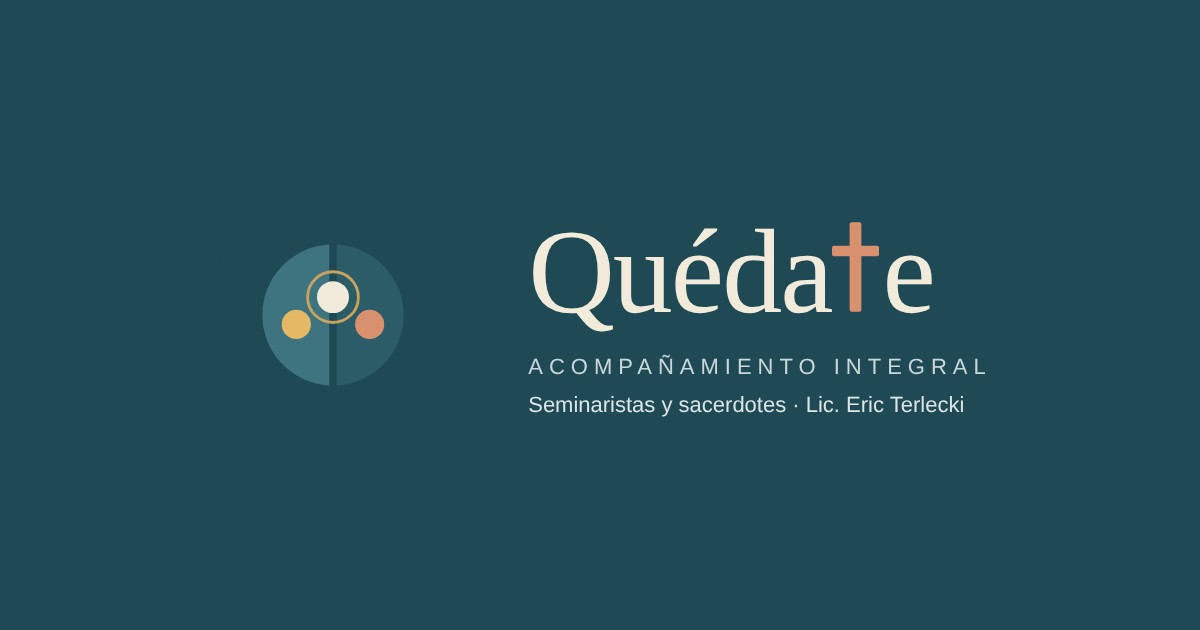
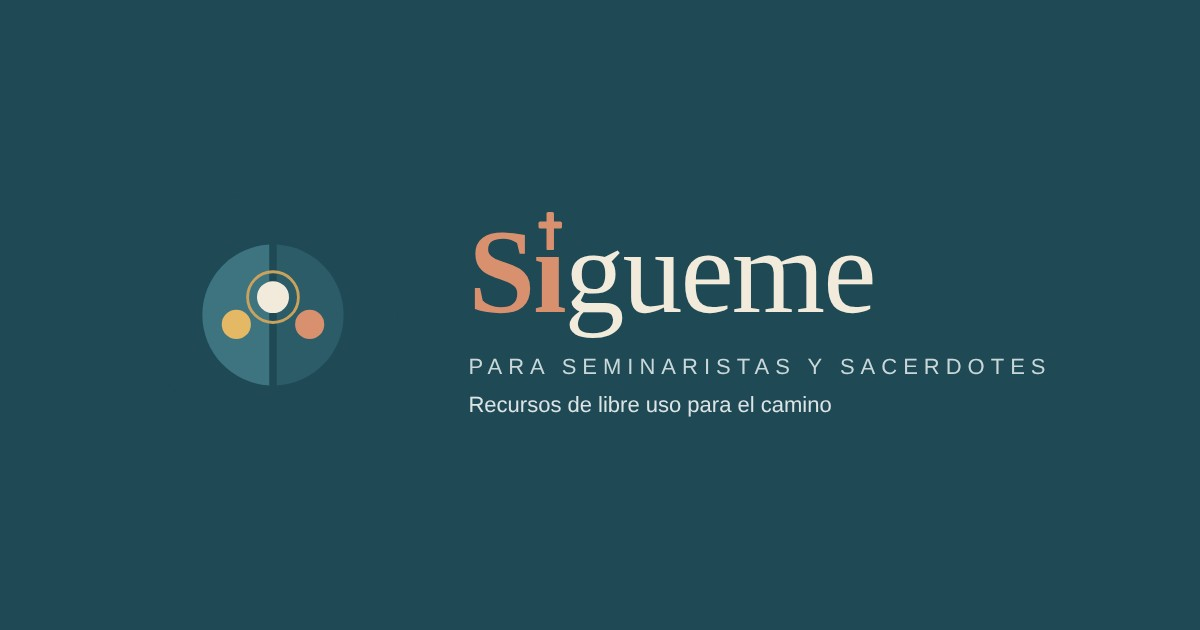
Nuevo nombre: Sígueme
Claude-Session: https://claude.ai/code/session_01126Kc534DUeLLevauV9jN5

Changed region(s): [[0.37, 0.3317, 0.8633, 0.6032], [0.1542, 0.3921, 0.3392, 0.6333], [0.37, 0.6333, 0.8017, 0.6635]]

diff --git a/app/index.html b/app/index.html
@@ -10,12 +10,12 @@
 <meta name="apple-mobile-web-app-capable" content="yes">
 <meta name="mobile-web-app-capable" content="yes">
 <meta name="apple-mobile-web-app-status-bar-style" content="black-translucent">
-<meta name="apple-mobile-web-app-title" content="Quédate">
+<meta name="apple-mobile-web-app-title" content="Sígueme">
 <style>:root{padding-top:env(safe-area-inset-top,0px);padding-bottom:env(safe-area-inset-bottom,0px)}body{margin:0}img{max-width:100%}[hidden]{display:none!important}</style>
-<title>Quédate · Examen del día</title>
+<title>Sígueme · Examen del día</title>
 <meta name="theme-color" content="#1f4955">
 <link rel="preconnect" href="https://fonts.googleapis.com">
-<link rel="stylesheet" href="https://fonts.googleapis.com/css2?family=Gloock&family=Newsreader:ital,opsz,wght@1,6..72,400;1,6..72,500&family=Figtree:wght@400;500;600;700&family=Playfair+Display:wght@500&display=swap">
+<link rel="stylesheet" href="https://fonts.googleapis.com/css2?family=Gloock&family=Newsreader:ital,opsz,wght@1,6..72,400;1,6..72,500&family=Figtree:wght@400;500;600;700&family=Playfair+Display:wght@500;700&display=swap">
 <style>
 /* Layout: app de una columna, encabezado de marca arriba, pestañas fijas abajo; cada vista es una "hoja" tranquila */
 :root{
@@ -279,7 +279,7 @@ dl.kv dd{margin:0;display:flex;flex-wrap:wrap;gap:6px 10px;align-items:baseline;
 .sos-list small{color:var(--muted);font-size:.82rem;grid-column:2}
 footer.sig{padding-block:26px 6px;text-align:center;font-size:.8rem;color:var(--muted)}
 
-/* ---- Quédate: ajustes propios ---- */
+/* ---- Sígueme: ajustes propios ---- */
 nav.tabs .in{grid-template-columns:repeat(5,1fr)}
 nav.tabs a{font-size:.7rem}
 .brand > svg{width:40px;height:40px}
@@ -351,6 +351,10 @@ nav.tabs a{font-size:.7rem}
 .word-day .ill,.mini-word .ill{width:72px;height:72px;border-radius:16px;padding:6px;background:color-mix(in srgb,var(--head-fg) 10%,transparent)}
 .mini-word .ill{width:60px;height:60px;background:var(--head-bg)}
 .quote .qtop .ill{width:60px;height:60px}
+/* Marca Sígueme: el «Sí» resaltado y la tilde como cruz que late */
+.wordmark .si{color:var(--terra,#D9906F);font-weight:700}
+.wordmark .ii{position:relative;display:inline-block}
+.wordmark .tilde{position:absolute;left:50%;bottom:.73em;width:.26em;height:.32em;transform:translateX(-46%);overflow:visible}
 </style>
 </head>
 <body>
@@ -364,6 +368,7 @@ nav.tabs a{font-size:.7rem}
       <circle cx="36" cy="85" r="15.5" fill="#E5B866"/>
       <circle cx="114" cy="85" r="15.5" fill="#D9906F"/>
     </symbol>
+    <symbol id="cruz-tilde" viewBox="0 0 44 72"><g class="latido" fill="#D9906F"><rect x="15" y="0" width="14" height="72" rx="3"/><rect x="0" y="18" width="44" height="13" rx="3"/></g></symbol>
     <symbol id="cruz" viewBox="0 0 44 84">
       <g class="latido" fill="#D9906F"><rect x="16.5" y="0" width="11" height="84" rx="2"/><rect x="0" y="22" width="44" height="10" rx="2"/></g>
     </symbol>
@@ -372,9 +377,9 @@ nav.tabs a{font-size:.7rem}
 
 <div class="wrap">
   <header class="top">
-    <a class="brand" href="#hoy" aria-label="Quédate, inicio">
+    <a class="brand" href="#hoy" aria-label="Sígueme, inicio">
       <svg aria-hidden="true"><use href="#simbolo"/></svg>
-      <div><div class="name wordmark" aria-hidden="true">Quéda<svg class="t"><use href="#cruz"/></svg>e</div><div class="sub">Examen del día</div></div>
+      <div><div class="name wordmark" aria-hidden="true"><span class="si">S<span class="ii">ı<svg class="tilde" aria-hidden="true"><use href="#cruz-tilde"/></svg></span></span>gueme</div><div class="sub">Examen del día</div></div>
     </a>
     <div class="top-actions">
       <a class="icon-btn" href="#contacto" data-nav="contacto">Acerca de</a>
@@ -627,7 +632,7 @@ nav.tabs a{font-size:.7rem}
         <summary>Instalar la app en el celular</summary>
         <div class="body">
           <div class="inst-ios-g"><b>En iPhone (Safari)</b><ol><li>Abra este enlace en <b>Safari</b>.</li><li>Toque el botón Compartir, en la barra de abajo.</li><li>Elija <b>«Agregar a inicio»</b> y toque <b>«Agregar»</b>.</li></ol></div>
-          <div class="inst-android-g"><b>En Android (Chrome)</b><ol><li>Abra este enlace en <b>Chrome</b>.</li><li>Toque el menú <b>⋮</b> (tres puntos), arriba a la derecha.</li><li>Elija <b>«Instalar aplicación»</b> o <b>«Agregar a la pantalla principal»</b>.</li><li>Confirme con <b>«Instalar»</b>. El ícono de Quédate aparece en su pantalla de inicio.</li></ol><p class="small muted">¿Usa Samsung Internet? Toque el menú <b>☰</b> abajo a la derecha, elija <b>«Agregar página a»</b> y luego <b>«Pantalla de inicio»</b>.</p></div>
+          <div class="inst-android-g"><b>En Android (Chrome)</b><ol><li>Abra este enlace en <b>Chrome</b>.</li><li>Toque el menú <b>⋮</b> (tres puntos), arriba a la derecha.</li><li>Elija <b>«Instalar aplicación»</b> o <b>«Agregar a la pantalla principal»</b>.</li><li>Confirme con <b>«Instalar»</b>. El ícono de Sígueme aparece en su pantalla de inicio.</li></ol><p class="small muted">¿Usa Samsung Internet? Toque el menú <b>☰</b> abajo a la derecha, elija <b>«Agregar página a»</b> y luego <b>«Pantalla de inicio»</b>.</p></div>
           <p class="small muted">Si ya la instaló, se actualiza sola cada vez que la abre con internet.</p>
         </div>
       </details>
@@ -681,7 +686,7 @@ nav.tabs a{font-size:.7rem}
       <div class="lead"><h2>Ajustes</h2><p class="muted">Todo se guarda sólo en este dispositivo.</p></div>
       <div class="card">
         <h3>Instalar en el celular</h3>
-        <p class="small muted">Tenga la app en la pantalla de inicio, con el logo de Quédate. Se abre como cualquier aplicación y funciona sin conexión.</p>
+        <p class="small muted">Tenga la app en la pantalla de inicio, con el logo de Sígueme. Se abre como cualquier aplicación y funciona sin conexión.</p>
         <div class="row"><button class="btn" id="a-install" type="button">Instalar la app</button><a class="btn ghost" href="#guia" data-goto="guia-instalar">Ver los pasos</a></div>
       </div>
       <div class="card">
@@ -706,7 +711,7 @@ nav.tabs a{font-size:.7rem}
     </section>
   </main>
 
-  <footer class="sig">Quédate · Lic. Eric Terlecki · Mat. 4331 · Rosario</footer>
+  <footer class="sig">Sígueme · Lic. Eric Terlecki · Mat. 4331 · Rosario</footer>
 </div>
 
 <nav class="tabs" aria-label="Secciones">
@@ -801,7 +806,7 @@ function loadDay(){const k=curDate(),d=daily[k]||{};
   const b=$("#hoy-estado");b.textContent=daily[k]?"Guardado":"Sin registrar";updateDayWA();paintHoyPalabra()}
 function paintHoyPalabra(){let p=PALABRA[pIdx()];if(mocion!==null&&mocion<0){const ds=PALABRA.filter(x=>x.c==="En la desolación");p=ds[pIdx()%ds.length]}$("#hoy-palabra").innerHTML=wordBlock(p,false)}
 function dayText(){const d=dayFromForm(),k=curDate(),L=[];
-  L.push("*Quédate · Examen del día*");if(prefs.nombre)L.push(prefs.nombre);L.push(fmtLong(parse(k)));L.push("");
+  L.push("*Sígueme · Examen del día*");if(prefs.nombre)L.push(prefs.nombre);L.push(fmtLong(parse(k)));L.push("");
   const g=[...d.gracias];if(d.graciasTxt)g.push(d.graciasTxt);if(g.length)L.push("*Doy gracias por:* "+g.join(", "));
   if(d.animo!==null)L.push("*Ánimo:* "+moodName(d.animo));
   const e=[...d.emociones];if(d.otra)e.push(d.otra);if(e.length)L.push("*Emociones:* "+e.join(", "));
@@ -838,7 +843,7 @@ function loadWeek(){const ks=weekDays();
 function weekFromForm(){return{proxima:$("#w-proxima").value,cons:$("#w-cons").value.trim(),deso:$("#w-deso").value.trim(),cansancio:getSeg($("#w-cansancio")),
   gad1:getSeg($("#w-gad1")),gad2:getSeg($("#w-gad2")),sostuvo:getChips($("#w-sostuvo")),sesion:$("#w-sesion").value.trim(),gracia:$("#w-gracia").value.trim()}}
 function weekText(){const w=weekFromForm(),ks=weekDays(),L=[];
-  L.push("*Quédate · Revisión semanal*");if(prefs.nombre)L.push(prefs.nombre);L.push("Semana del "+fmtShort(wStart)+" al "+fmtShort(addDays(wStart,6)));
+  L.push("*Sígueme · Revisión semanal*");if(prefs.nombre)L.push(prefs.nombre);L.push("Semana del "+fmtShort(wStart)+" al "+fmtShort(addDays(wStart,6)));
   if(w.proxima)L.push("Próximo encuentro: "+fmtShort(parse(w.proxima)));L.push("");
   const lines=ks.map((k,i)=>{const d=daily[k];return d?`${DIAS[i]}: ${moodName(d.animo)} · ${mocName(d.mocion)}`:null}).filter(Boolean);
   if(lines.length){L.push("*Exámenes de la semana*");L.push(...lines);L.push("")}

diff --git a/index.html b/index.html
@@ -5,24 +5,24 @@
 <meta name="viewport" content="width=device-width, initial-scale=1, viewport-fit=cover">
 <link rel="icon" href="favicon.svg" type="image/svg+xml">
 <link rel="apple-touch-icon" href="apple-touch-icon.png">
-<meta property="og:title" content="Quédate · Acompañamiento integral">
+<meta property="og:title" content="Sígueme · Acompañamiento integral">
 <meta property="og:description" content="Recursos de libre uso para seminaristas y sacerdotes: examen del día, la Palabra, lecturas y claves para el camino.">
 <meta property="og:type" content="website">
-<meta property="og:site_name" content="Quédate">
+<meta property="og:site_name" content="Sígueme">
 <meta property="og:locale" content="es_AR">
 <meta property="og:url" content="https://quedate-web.vercel.app/">
 <meta property="og:image" content="https://quedate-web.vercel.app/og-imagen.jpg">
 <meta property="og:image:width" content="1200">
 <meta property="og:image:height" content="630">
-<meta property="og:image:alt" content="Quédate · Acompañamiento integral para seminaristas y sacerdotes. Lic. Eric Terlecki.">
+<meta property="og:image:alt" content="Sígueme · Acompañamiento integral para seminaristas y sacerdotes. Lic. Eric Terlecki.">
 <meta name="twitter:card" content="summary_large_image">
 <link rel="canonical" href="https://quedate-web.vercel.app/">
 <meta name="theme-color" content="#1F4955">
-<title>Quédate · Acompañamiento integral para seminaristas y sacerdotes</title>
-<meta name="description" content="Quédate · Recursos de libre uso para seminaristas y sacerdotes: examen del día, la Palabra, lecturas y claves para el camino.">
+<title>Sígueme · Acompañamiento integral para seminaristas y sacerdotes</title>
+<meta name="description" content="Sígueme · Recursos de libre uso para seminaristas y sacerdotes: examen del día, la Palabra, lecturas y claves para el camino.">
 <link rel="preconnect" href="https://fonts.googleapis.com">
 <link rel="preconnect" href="https://fonts.gstatic.com" crossorigin>
-<link rel="stylesheet" href="https://fonts.googleapis.com/css2?family=Gloock&family=Figtree:wght@400;500;600&family=Playfair+Display:wght@500&display=swap">
+<link rel="stylesheet" href="https://fonts.googleapis.com/css2?family=Gloock&family=Figtree:wght@400;500;600&family=Playfair+Display:wght@500;700&display=swap">
 <style>
 html,body{margin:0}body{-webkit-font-smoothing:antialiased}img{max-width:100%}[hidden]{display:none!important}
 :root{
@@ -245,6 +245,11 @@ footer a{color:var(--cream)}
 .conv-steps{margin-top:18px;color:rgba(242,235,219,.8);max-width:62ch}
 .nav .nav-quiet{font-size:.85rem;text-decoration:none;color:var(--cream);opacity:.8;border:1px solid rgba(242,235,219,.35);padding:7px 14px;border-radius:999px;white-space:nowrap}
 .nav .nav-quiet:hover{opacity:1}
+
+/* Marca Sígueme: el «Sí» resaltado y la tilde como cruz que late */
+.wordmark .si{color:var(--terra,#D9906F);font-weight:700}
+.wordmark .ii{position:relative;display:inline-block}
+.wordmark .tilde{position:absolute;left:50%;bottom:.73em;width:.26em;height:.32em;transform:translateX(-46%);overflow:visible}
 </style>
 </head>
 <body>
@@ -262,7 +267,8 @@ footer a{color:var(--cream)}
       <circle cx="36" cy="85" r="15.5" fill="#E5B866"/>
       <circle cx="114" cy="85" r="15.5" fill="#D9906F"/>
     </symbol>
-    <!-- La t de Quédate, como cruz -->
+    <!-- La t de Sígueme, como cruz -->
+    <symbol id="cruz-tilde" viewBox="0 0 44 72"><g class="latido" fill="#D9906F"><rect x="15" y="0" width="14" height="72" rx="3"/><rect x="0" y="18" width="44" height="13" rx="3"/></g></symbol>
     <symbol id="cruz" viewBox="0 0 44 84">
       <g class="latido" fill="#D9906F"><rect x="16.5" y="0" width="11" height="84" rx="2"/><rect x="0" y="22" width="44" height="10" rx="2"/></g>
     </symbol>
@@ -271,7 +277,7 @@ footer a{color:var(--cream)}
 
 <nav class="nav" aria-label="Principal">
   <div class="wrap">
-    <a class="brand" href="#inicio" aria-label="Quédate, inicio"><svg aria-hidden="true"><use href="#simbolo"/></svg><span class="wordmark" aria-hidden="true">Quéda<svg class="t"><use href="#cruz"/></svg>e</span></a>
+    <a class="brand" href="#inicio" aria-label="Sígueme, inicio"><svg aria-hidden="true"><use href="#simbolo"/></svg><span class="wordmark" aria-hidden="true"><span class="si">S<span class="ii">ı<svg class="tilde" aria-hidden="true"><use href="#cruz-tilde"/></svg></span></span>gueme</span></a>
     <ul>
       <li><a href="#emaus">Como en Emaús</a></li>
       <li><a href="#camino">Para el camino</a></li>
@@ -303,7 +309,7 @@ footer a{color:var(--cream)}
 <header class="hero" id="inicio">
   <div class="wrap">
     <div>
-      <p class="hero-tag">«Quédate con nosotros, porque ya es tarde»<small>Lc 24,29</small></p>
+      <p class="hero-tag">«Sígueme»<small>Jn 21,19</small></p>
       <p class="eyebrow" style="color:var(--terra);margin-top:22px">Para seminaristas y sacerdotes</p>
       <h1 style="margin-top:14px">Un lugar para quedarse <em>y seguir caminando</em>.</h1>
       <p class="common">Recursos para cuidar la vida interior en la formación y en el ministerio: una app para el examen del día, la Palabra que consuela, lecturas y algunas claves para el camino.</p>
@@ -315,7 +321,7 @@ footer a{color:var(--cream)}
     </div>
     <div class="hero-mark" aria-hidden="true">
       <svg><use href="#simbolo"/></svg>
-      <span class="wordmark">Quéda<svg class="t"><use href="#cruz"/></svg>e</span>
+      <span class="wordmark"><span class="si">S<span class="ii">ı<svg class="tilde" aria-hidden="true"><use href="#cruz-tilde"/></svg></span></span>gueme</span>
     </div>
   </div>
 </header>
@@ -465,7 +471,7 @@ footer a{color:var(--cream)}
       <div>
         <p class="po-lead" style="margin-top:0">Soy psicólogo y trabajo desde la psicoterapia clínica con un enfoque humanista, integrativo y trascendente.</p>
         <p style="margin-top:16px">Quien acompaña a otros también necesita ser acompañado. Detrás de cada vocación hay una persona con su historia, sus afectos, su cansancio y sus preguntas.</p>
-        <p>«Quédate» nace como un aporte para quienes sostienen a tantos: un lugar con recursos para el camino, abierto a quien lo necesite.</p>
+        <p>«Sígueme» nace como un aporte para quienes sostienen a tantos: un lugar con recursos para el camino, abierto a quien lo necesite.</p>
         <p class="po-note">Es un espacio hermano de <a href="https://entre-nosotros-web.vercel.app/" target="_blank" rel="noopener">Entre Nosotros</a> y de <a href="https://a-tu-lado-web.vercel.app/" target="_blank" rel="noopener">A tu Lado</a>.</p>
       </div>
     </div>
@@ -515,7 +521,7 @@ footer a{color:var(--cream)}
 </section>
 
 <footer>
-  <div class="wrap"><span>Quédate · Recursos de libre uso para seminaristas y sacerdotes · Lic. Eric Terlecki · Mat. N.º 4331</span><span>Emergencias: <a href="#emergencias">911 · 107 SIES · 0800-999-0091</a></span></div>
+  <div class="wrap"><span>Sígueme · Recursos de libre uso para seminaristas y sacerdotes · Lic. Eric Terlecki · Mat. N.º 4331</span><span>Emergencias: <a href="#emergencias">911 · 107 SIES · 0800-999-0091</a></span></div>
 </footer>
 
 <div class="toast" id="toast" hidden>Copiado</div>

diff --git a/app/sw.js b/app/sw.js
@@ -1,5 +1,5 @@
 // Permite abrir la app sin conexión. Cambiar la versión al publicar cambios.
-const CACHE = "quedate-v5";
+const CACHE = "sigueme-v1";
 const FILES = ["./", "./index.html", "./manifest.webmanifest", "./icons/icon-192.png", "./icons/icon-512.png", "./icons/apple-touch-icon.png"];
 self.addEventListener("install", e => { e.waitUntil(caches.open(CACHE).then(c => c.addAll(FILES))); self.skipWaiting(); });
 self.addEventListener("activate", e => {
